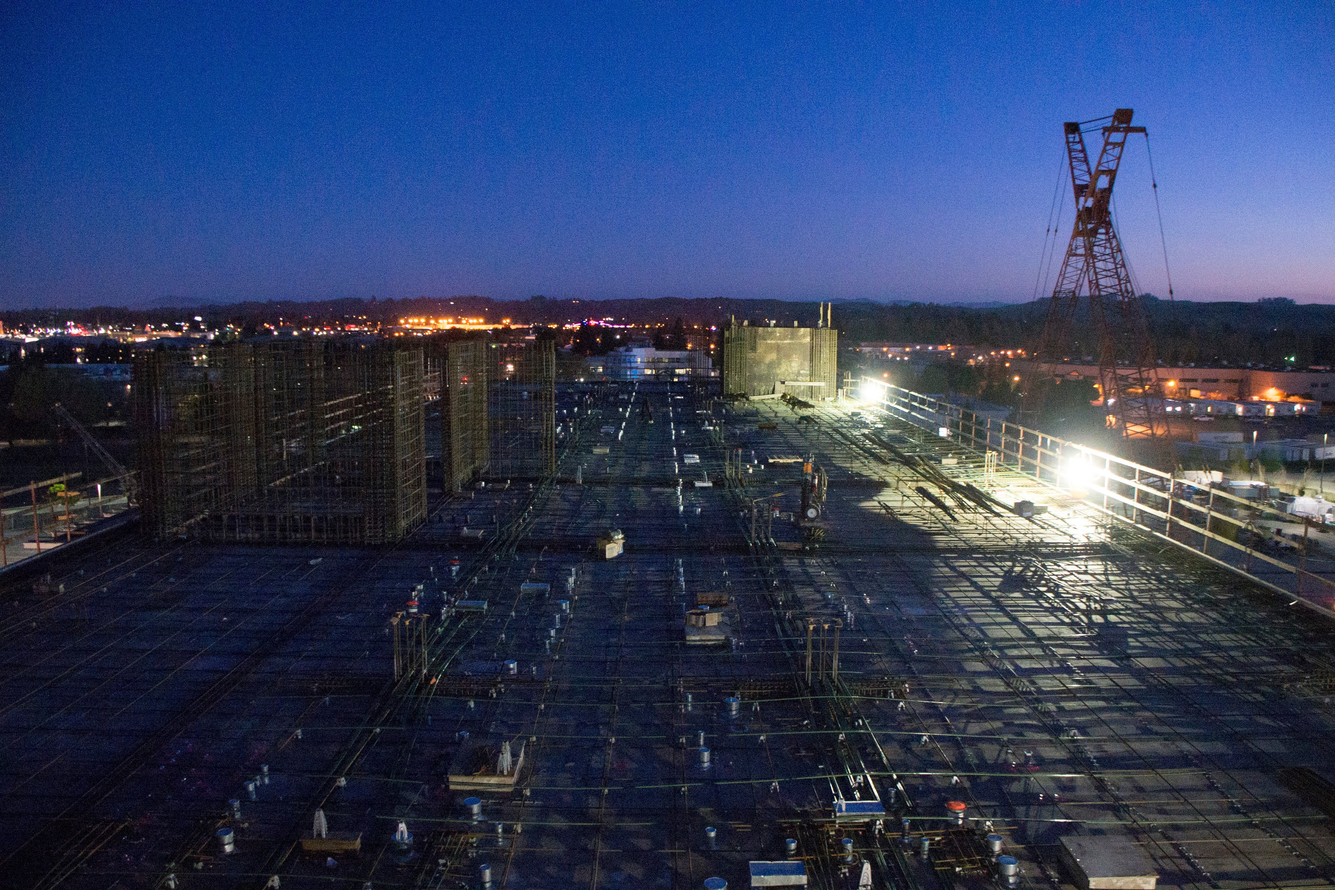
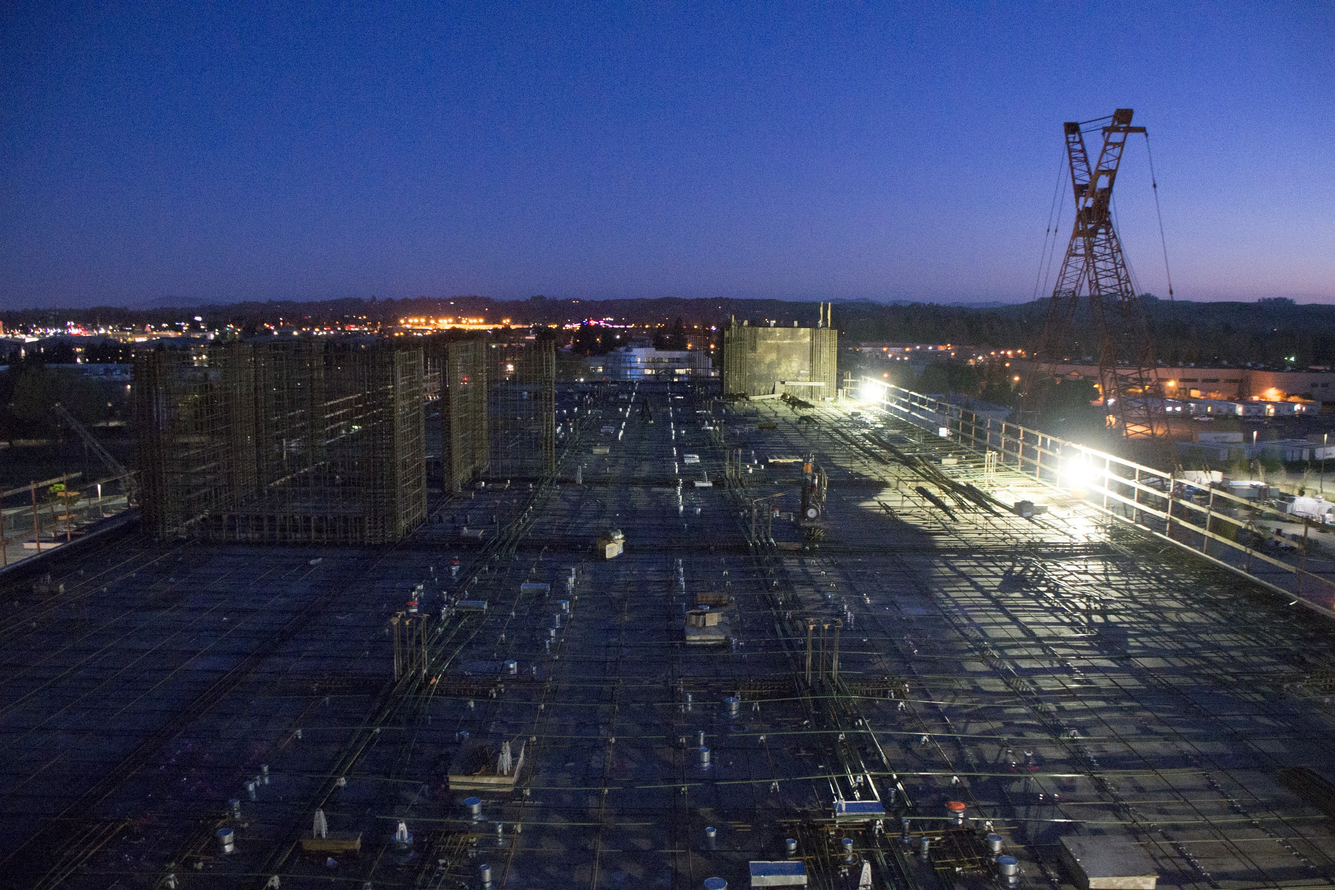
updating construction page
compressing images

Changed region(s): [[0.0, 0.0, 1.0, 0.25]]

diff --git a/construction.html b/construction.html
@@ -4,8 +4,8 @@
   <meta charset="utf-8">
     <meta name="viewport" content="width=device-width, initial-scale=1">
     <link href="css/normalize.css" type="text/css" rel="stylesheet" media="screen,projection"/>
-	  <link href="css/style.css" type="text/css" rel="stylesheet" media="screen,projection"/>
 	  	  <link href="css/constr.css" type="text/css" rel="stylesheet" media="screen,projection"/>
+	  <link href="css/style.css" type="text/css" rel="stylesheet" media="screen,projection"/>
     <link rel="stylesheet" href="css/skeleton.css">
 	<link href="css/lightbox.css" rel="stylesheet">
   <script src="https://ajax.googleapis.com/ajax/libs/jquery/3.1.1/jquery.min.js"></script>

diff --git a/css/constr.css b/css/constr.css
@@ -8,6 +8,10 @@
     text-align: center;
     font-size: 50px;
 }
+
+.gallery-section {
+	height: 250vh !important;
+}
 span {
 	color: #E78533 !important;
 }
